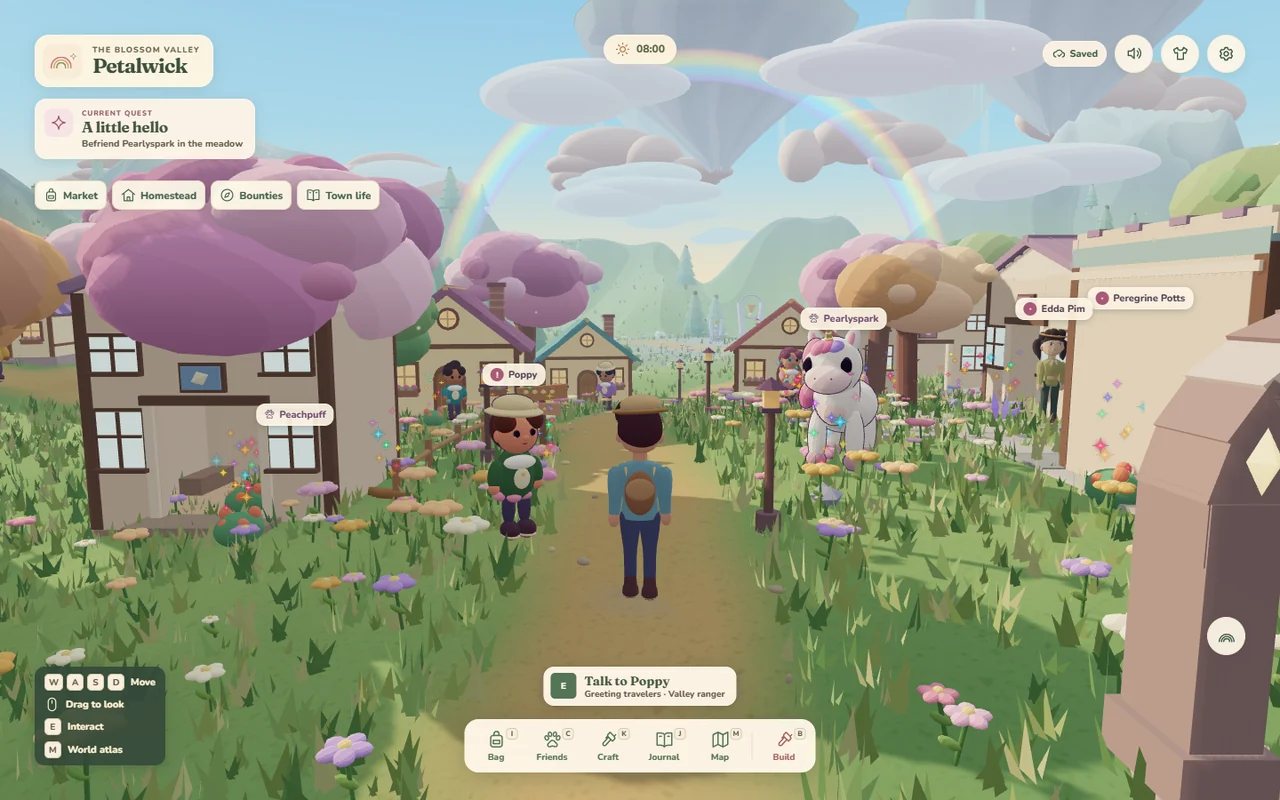
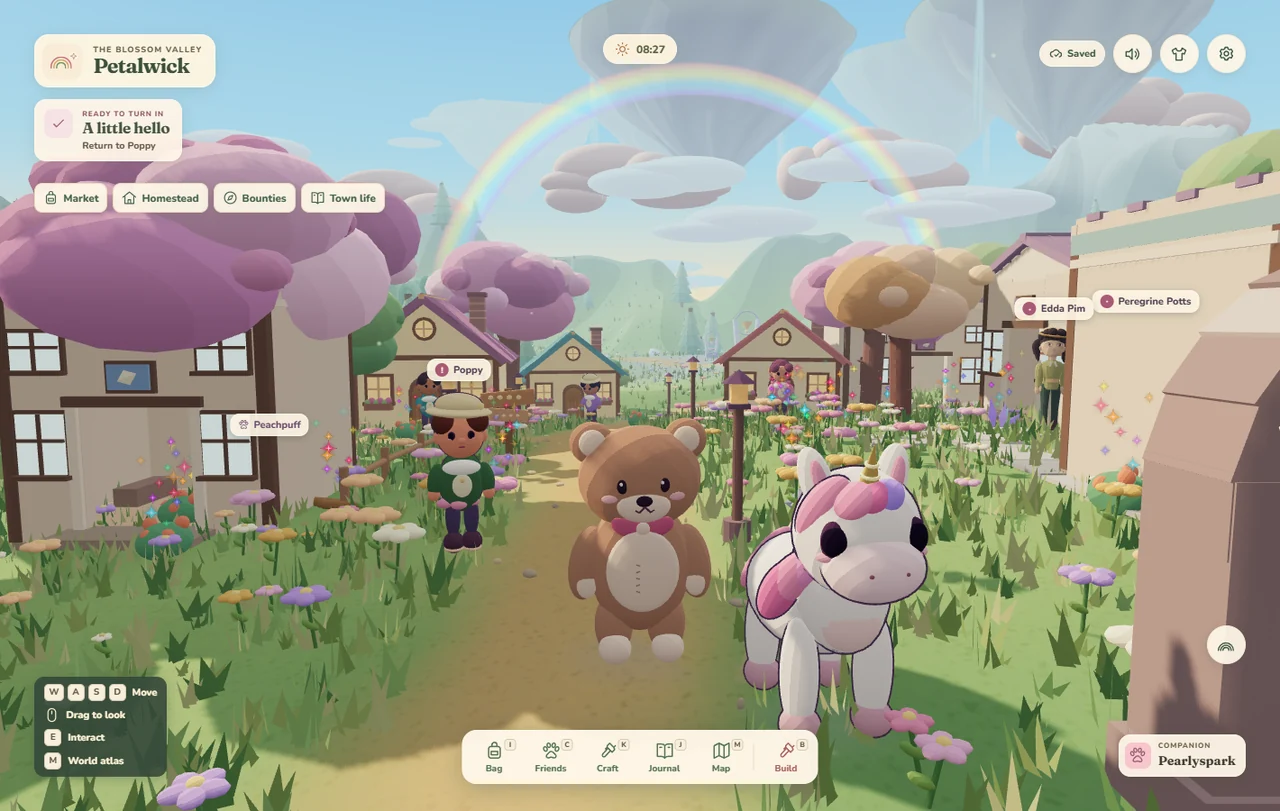
Feature the teddy bear traveler in the gameplay gallery

diff --git a/README.md b/README.md
@@ -2,20 +2,20 @@
 
 A cozy browser adventure where you can befriend a unicorn, grow a cottage garden, and follow the road wherever it goes.
 
-![A rainbow over Petalwick’s blossom trees and cottages](docs/gameplay/petalwick.webp)
+![A teddy bear and Pearlyspark beneath a rainbow in Petalwick](docs/gameplay/petalwick.webp)
 
 ## A few places to wander
 
 | 🌾 Windmere | ✨ Moonjar Marsh |
 | --- | --- |
-| ![Pink sails turning above Windmere’s cottages](docs/gameplay/windmere.webp) | ![Lanterns and little creatures gathered in Moonjar Marsh at night](docs/gameplay/moonjar-marsh.webp) |
+| ![A teddy bear traveler beneath Windmere’s pink windmill sails](docs/gameplay/windmere.webp) | ![A teddy bear and Buttoncap beside the lantern path in Moonjar Marsh](docs/gameplay/moonjar-marsh.webp) |
 | Follow the west road from Spirehaven to the windmills. | Take a lantern-lit walk after dusk. |
 
 ### ⚓ All aboard the Black Marigold
 
 Follow the coast road to Corsair Cove. At the end of the jetty, take the gangplank aboard and explore the cargo hold below deck.
 
-![The Black Marigold moored beside the wooden jetty in Corsair Cove](docs/gameplay/black-marigold.webp)
+![A teddy bear on the jetty beside the Black Marigold](docs/gameplay/black-marigold.webp)
 
 ## Play locally
 
